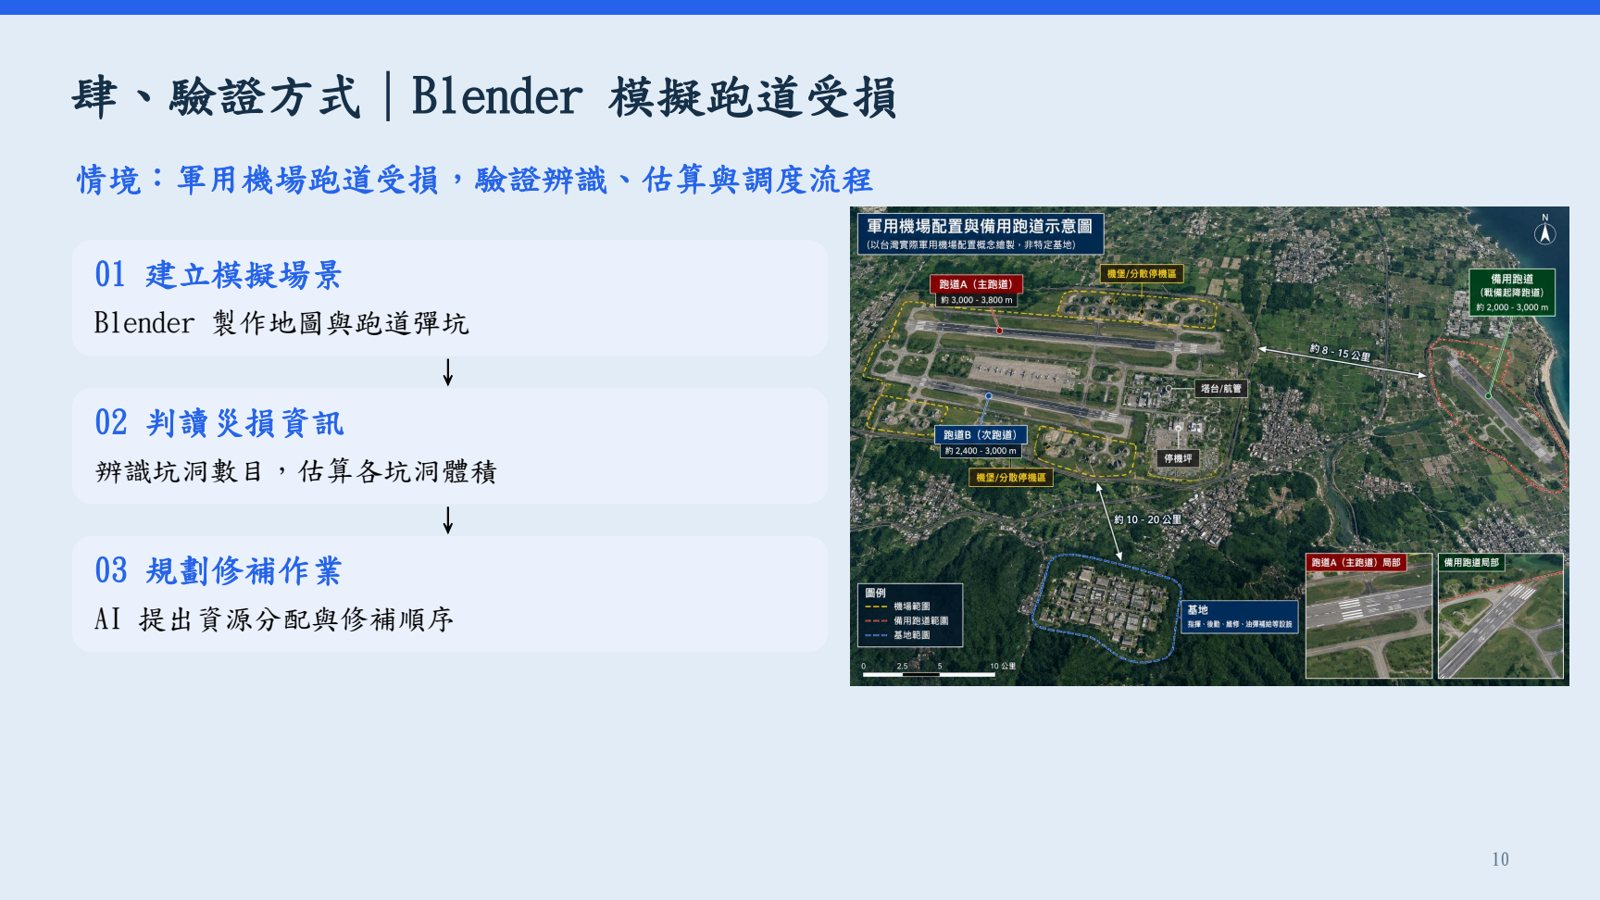
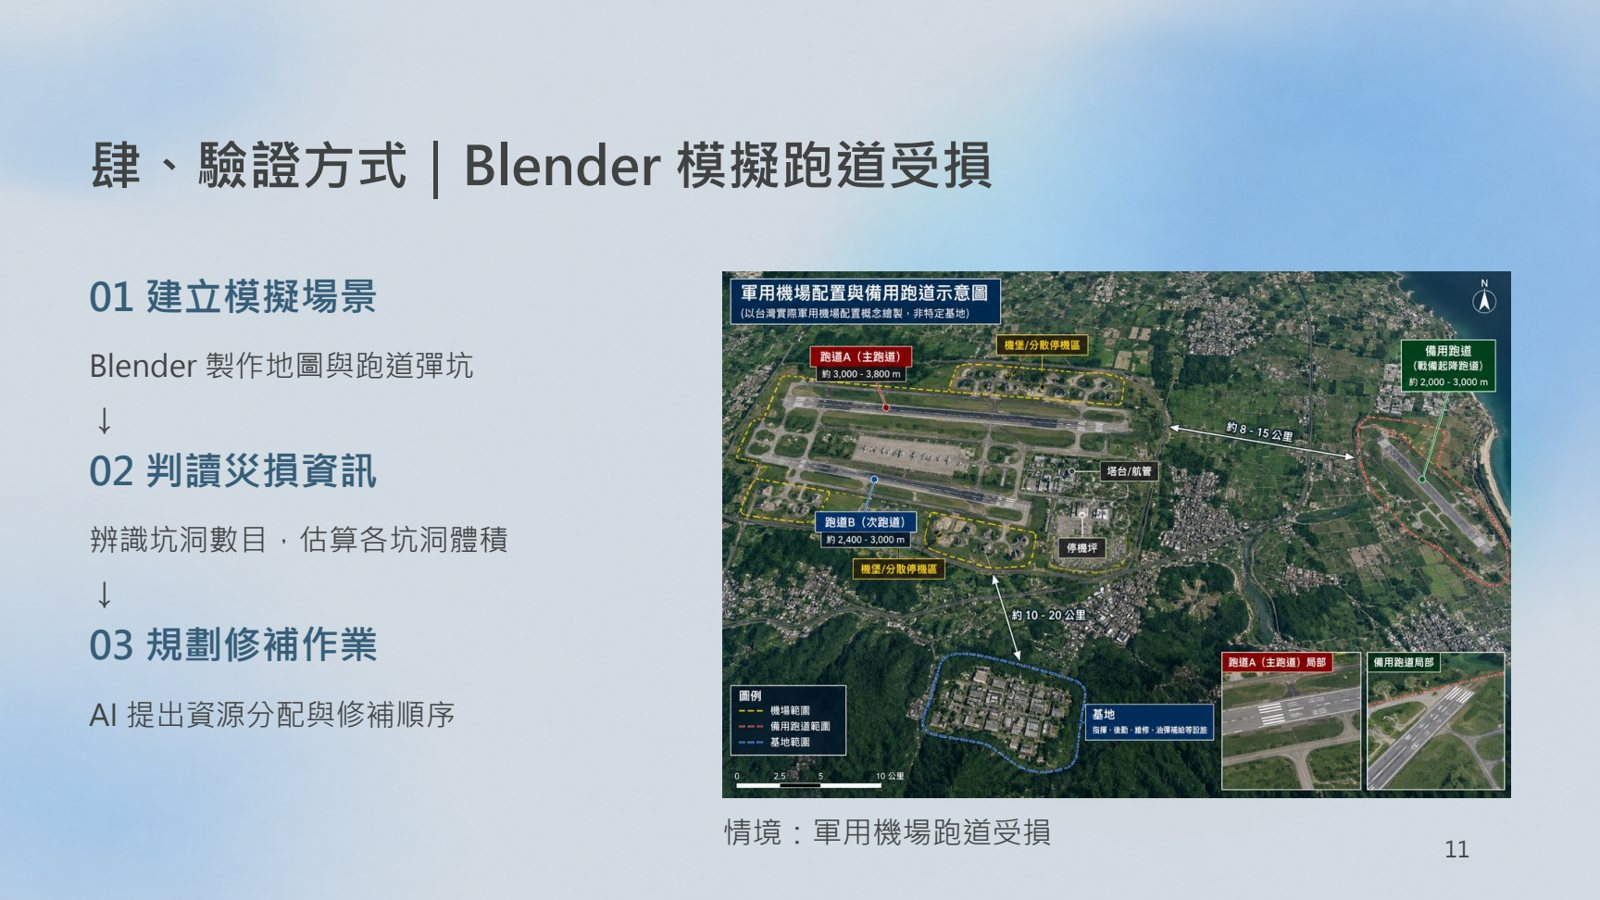
Final defense deck, Mars rover first, fix photo crops

diff --git a/index.html b/index.html
@@ -13,7 +13,7 @@
 <link rel="preconnect" href="https://fonts.gstatic.com" crossorigin>
 <link href="https://fonts.googleapis.com/css2?family=Noto+Serif+TC:wght@600;900&family=Noto+Sans+TC:wght@400;500;700&family=IBM+Plex+Mono:wght@400;500&display=swap" rel="stylesheet">
 <script>try{var t=localStorage.getItem("theme");if(t==="dark"||t==="light")document.documentElement.setAttribute("data-theme",t)}catch(e){}</script>
-<link rel="stylesheet" href="style.css?v=25">
+<link rel="stylesheet" href="style.css?v=28">
 </head>
 <body>
 
@@ -135,17 +135,17 @@
 
     <li data-c="contest build"><details><summary>
       <div class="meta"><time>2026.11</time><span class="st st-done">完成</span></div>
-      <img class="thumb" src="img/mars-team.jpg" alt="" loading="lazy">
+      <img class="thumb" src="img/mars-rover.jpg" alt="" loading="lazy">
       <div><h3>2026 火星任務　火星車降落競賽</h3><p>東海大學和科博館主辦。從零做出一台能降落的機體，最後完賽。</p></div></summary>
       <div class="more">
         <p>機體是 3D 列印的藍色框架。飛控是我們用 ESP32 自己寫的四軸飛控，再加一顆 ESP32 相機辨識地上的 AprilTag，讓機體自己找降落點。</p>
         <p>降落要怎麼設計，是在機器人社課後和隊友一起討論出來的。比賽當天在體育館，最後完賽，沒有得獎。</p>
         <div class="more-photos">
-          <img src="img/mars-team.jpg" alt="隊友圍著筆電接線" loading="lazy">
-          <img src="img/mars-build.jpg" alt="組裝藍色機體" loading="lazy">
           <img src="img/mars-rover.jpg" alt="完成的火星車機體" loading="lazy">
-          <img src="img/mars-day.jpg" alt="比賽當天在場邊修機體" loading="lazy">
           <img src="img/mars-field.jpg" alt="機體在體育館比賽場地上" loading="lazy">
+          <img src="img/mars-build.jpg" alt="組裝藍色機體" loading="lazy">
+          <img src="img/mars-day.jpg" alt="比賽當天在場邊修機體" loading="lazy">
+          <img src="img/mars-team.jpg" alt="隊友圍著筆電接線" loading="lazy">
           <img src="img/cert-mars.jpg" alt="2026 火星任務參賽證明" loading="lazy">
         </div>
       </div>
@@ -241,15 +241,15 @@
 
     <li data-c="contest"><details><summary>
       <div class="meta"><time>2026.10</time><span class="st st-now">進行中</span></div>
-      <img class="thumb" src="img/defense-ai.jpg" alt="" loading="lazy">
-      <div><h3>國防 AI 影像辨識競賽</h3><p>「彈坑快修」，擔任隊長，和學長的團隊一起送件。</p></div></summary>
+      <img class="thumb" src="img/defense-ai.jpg?v=2" alt="" loading="lazy">
+      <div><h3>國防 AI 影像辨識競賽</h3><p>「破土重圓：從影像辨識到快速評估」，擔任隊長，和學長的團隊一起送件。</p></div></summary>
       <div class="more">
         <p>戰時機場跑道常是第一個被攻擊的目標，越快修好越能恢復起降。我們的想法分四步：無人機拍跑道、YOLO 找出彈坑（也拿路面坑洞當反例訓練，避免誤判）、用 3DGS 快速重建 3D 模型估算彈坑體積，最後由 AI 估算材料、人力並排修復順序。</p>
         <p>驗證方式是用 Blender 模擬機場跑道受損。指導老師是陳永祥老師，10 月 13 日送件，現在等主辦通知。</p>
         <div class="more-photos">
-          <img src="img/defense-ai.jpg" alt="彈坑快修簡報封面" loading="lazy">
-          <img src="img/defense-yolo.jpg" alt="讓 YOLO 學會區分彈坑" loading="lazy">
-          <img src="img/defense-blender.jpg" alt="用 Blender 模擬跑道受損" loading="lazy">
+          <img src="img/defense-ai.jpg?v=2" alt="彈坑快修簡報封面" loading="lazy">
+          <img src="img/defense-yolo.jpg?v=2" alt="讓 YOLO 學會區分彈坑" loading="lazy">
+          <img src="img/defense-blender.jpg?v=2" alt="用 Blender 模擬跑道受損" loading="lazy">
         </div>
       </div>
     </details></li>

diff --git a/style.css b/style.css
@@ -480,3 +480,9 @@ summary:focus-visible,button:focus-visible,a:focus-visible{outline:2px solid var
 .vid img{width:100%;aspect-ratio:9/14;object-fit:cover;border-radius:4px;display:block;transition:transform .3s}
 .vid span{display:block;font-size:13px;margin-top:6px;line-height:1.4}
 .vid:hover img{transform:translateY(-3px)}
+/* 直式照片的主體在下方，裁切時往下對齊 */
+img[src*="esp32-car"]{object-position:50% 80%!important}
+img[src*="mars-rover"],img[src*="mars-field"]{object-position:50% 55%!important}
+/* 簡報、網站截圖是 16:9，不要裁；工程圖整張顯示 */
+.more-photos img[src*="defense-"],.more-photos img[src*="yb-"],.more-photos img[src*="wordmemo"],.more-photos img[src*="radar"],.more-photos img[src*="line-elf"],.more-photos img[src*="chess"]{aspect-ratio:16/9;object-position:50% 0}
+.more-photos img[src*="trc-xy"]{object-fit:contain;background:#fff;padding:6px}
